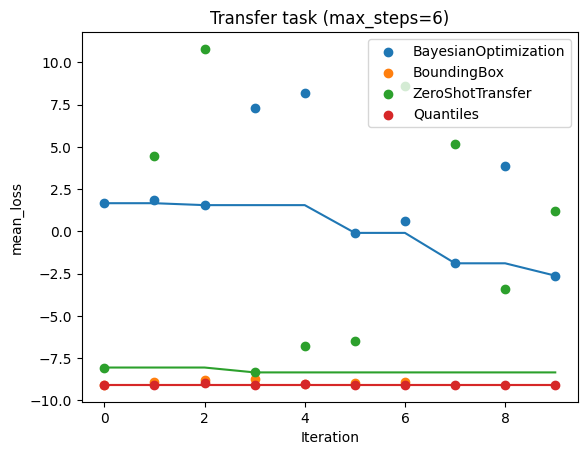
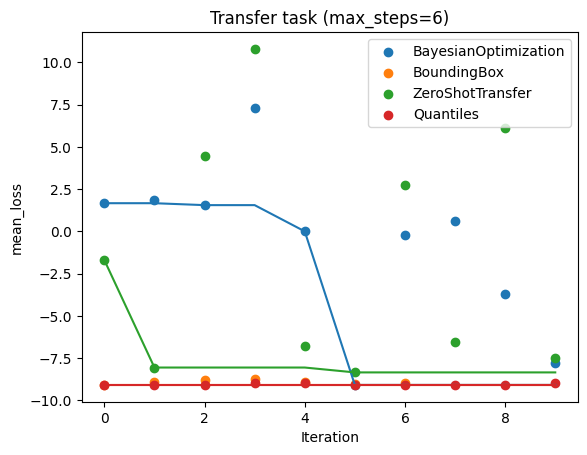
Fixes to example.

diff --git a/docs/source/tutorials/transfer_learning/transfer_learning_example.py b/docs/source/tutorials/transfer_learning/transfer_learning_example.py
@@ -1,3 +1,19 @@
+# Copyright 2021 Amazon.com, Inc. or its affiliates. All Rights Reserved.
+#
+# Licensed under the Apache License, Version 2.0 (the "License").
+# You may not use this file except in compliance with the License.
+# A copy of the License is located at
+#
+#     http://www.apache.org/licenses/LICENSE-2.0
+#
+# or in the "license" file accompanying this file. This file is distributed
+# on an "AS IS" BASIS, WITHOUT WARRANTIES OR CONDITIONS OF ANY KIND, either
+# express or implied. See the License for the specific language governing
+# permissions and limitations under the License.
+"""
+Example collecting evaluations and using them for transfer learning on a
+related task.
+"""
 from examples.training_scripts.height_example.train_height import (
     height_config_space,
     METRIC_ATTR,
@@ -57,20 +73,24 @@ def plot_last_task(max_trials, df, label, metric, color):
     plt.plot([np.min(df[metric][:ii]) for ii in range(1, max_trials + 1)], color=color)
 
 
+def filter_completed(df):
+    # Filter out runs that didn't finish
+    return df[df["status"] == "Completed"].reset_index()
+
+
 def extract_transferable_evaluations(df, metric, config_space):
     """
     Take a dataframe from a tuner run, filter it and generate
     TransferLearningTaskEvaluations from it
     """
-
-    # Filter out nan values, i.e. make sure we only use completed runs
-    filter_df = df[~pd.isna(df[metric])].reset_index()
+    filter_df = filter_completed(df)
 
     return TransferLearningTaskEvaluations(
         configuration_space=config_space,
         hyperparameters=filter_df[config_space.keys()],
         objectives_names=[metric],
-        # objectives_evaluations need to be of shape (num_evals, num_seeds, num_fidelities, num_objectives)
+        # objectives_evaluations need to be of shape
+        # (num_evals, num_seeds, num_fidelities, num_objectives)
         # We only have one seed, fidelity and objective
         objectives_evaluations=np.array(filter_df[metric], ndmin=4).T,
     )
@@ -156,6 +176,7 @@ if __name__ == "__main__":
             transfer_learning_evaluations=None,
         )
 
+        print("Optimising preliminary task %s" % max_steps)
         prev_task = run_scheduler_on_task(entry_point, scheduler, max_trials)
 
         # Generate TransferLearningTaskEvaluations from previous task
@@ -176,6 +197,7 @@ if __name__ == "__main__":
             metric=METRIC_ATTR,
             transfer_learning_evaluations=transfer_learning_evaluations,
         )
+        print("Optimising transfer task using %s" % scheduler_str)
         transfer_task_results[scheduler_str] = run_scheduler_on_task(
             entry_point, scheduler, max_trials
         )
@@ -207,7 +229,7 @@ if __name__ == "__main__":
     add_labels(
         ax,
         scheduler.config_space,
-        "Explored locations of BO for different preliminary tasks",
+        "Explored locations of BO for preliminary tasks",
     )
     plt.savefig("Configs_explored_preliminary.png", bbox_inches="tight")
 
@@ -216,14 +238,15 @@ if __name__ == "__main__":
 
     # Plot the configs tried by the different schedulers on the transfer task
     for label in labels:
+        finished_trials = filter_completed(transfer_task_results[label])
         scatter_space_exploration(
-            ax, transfer_task_results[label], max_trials, label, color=colours[label]
+            ax, finished_trials, max_trials, label, color=colours[label]
         )
 
         # Plot the first config tested as a big square
         ax.scatter(
-            transfer_task_results[label]["width"][0],
-            transfer_task_results[label]["height"][0],
+            finished_trials["width"][0],
+            finished_trials["height"][0],
             marker="s",
             color=colours[label],
             s=100,
@@ -233,7 +256,9 @@ if __name__ == "__main__":
     past_label = "Preliminary optima"
     for key in transfer_learning_evaluations:
         argmin = np.argmin(
-            transfer_learning_evaluations[key].objective_values(METRIC_ATTR)[:, 0, 0]
+            transfer_learning_evaluations[key].objective_values(METRIC_ATTR)[
+                :max_trials, 0, 0
+            ]
         )
         ax.scatter(
             transfer_learning_evaluations[key].hyperparameters["width"][argmin],

diff --git a/docs/source/tutorials/transfer_learning/transfer_learning.rst b/docs/source/tutorials/transfer_learning/transfer_learning.rst
@@ -9,36 +9,38 @@ Syne Tune includes implementations of several transfer learning schedulers; a li
 * :class:`~syne_tune.optimizer.schedulers.transfer_learning.BoundingBox`: We construct a smaller hyperparameter search space by taking the minimum box which contains the optimal configurations for the previous tasks. The idea is to speed up optimisation by not searching areas which have been suboptimal for all previous tasks.
 * Quantiles (:class:`~syne_tune.optimizer.schedulers.transfer_learning.quantile_based.quantile_based_searcher`): We map the hyperparameter evaluations to quantiles for each task. Then we learn a distribution of quantiles given hyperparameters. Finally we sample from the distribution and evaluate the best sample. The idea is to speed up optimisation by searching areas with high-ranking configurations but without enforcing hard limits on the search space.
 
-We compare them to standard :class:`~syne_tune.optimizer.baselines.BayesianOptimization` (BO). We construct a set of tasks based on the height example. We first collect evaluations of five tasks, and then compare results on the sixth. We consider the single-fidelity case.
+We compare them to standard :class:`~syne_tune.optimizer.baselines.BayesianOptimization` (BO).
+
+We construct a set of tasks based on the height example. We first collect evaluations of five tasks, and then compare results on the sixth. We consider the single-fidelity case. The code is available `here <transfer_learning_example.py>`_.
 
 In order to run our transfer learning schedulers we need to parse the output of the tuner into a dict of :class:`~syne_tune.optimizer.schedulers.transfer_learning.TransferLearningTaskEvaluations`. We do this in the `extract_transferable_evaluations` function.
 
 .. literalinclude:: transfer_learning_example.py
    :caption: Code to prepare evaluations from previous tasks for transfer learning.
-   :lines: 60-76
+   :lines: 76-96
 
 We start by collecting evaluations by running `BayesianOptimization` on five tasks. We generate the different tasks by setting `max_steps=1..5` in the backend in `init_scheduler`. Once we have run BO on the task we store the evaluations as `TransferLearningTaskEvaluations`. 
 
 .. literalinclude:: transfer_learning_example.py
    :caption: Code to initialise schedulers, use it to optimise a task and collect evaluations on preliminary tasks.
-   :lines: 79-164
+   :lines: 99-185
 
 
 Then we run different schedulers to compare on our transfer task with `max_steps=6`. For `ZeroShotTransfer` we set `use_surrogates=True`, meaning that it uses an XGBoost model to estimate the rank of configurations, as we do not have evaluations of the same configurations on all previous tasks.  
 
 .. literalinclude:: transfer_learning_example.py
    :caption: Code to run schedulers on transfer task.
-   :lines: 166-181
+   :lines: 187-203
 
-We plot the results on the transfer task. We see that the early performance of the transfer schedulers is much better than standard BO.
+We plot the results on the transfer task. We see that the early performance of the transfer schedulers is much better than standard BO. We only plot the first `max_trials` results.
 
 .. literalinclude:: transfer_learning_example.py
    :caption: Plotting helper code.
-   :lines: 27-57
+   :lines: 43-73
    
 .. literalinclude:: transfer_learning_example.py
    :caption: Code to plot results on transfer task.
-   :lines: 183-196
+   :lines: 205-218
    
 .. image:: Transfer_task.png
    :width: 768 px
@@ -47,7 +49,7 @@ We also look at the parts of the search space explored. First by looking at the 
 
 .. literalinclude:: transfer_learning_example.py
    :caption: Code to plot the configurations tried for the preliminary tasks.
-   :lines: 198-212
+   :lines: 220-234
    
 .. image:: Configs_explored_preliminary.png
    :width: 768 px
@@ -56,7 +58,7 @@ Then we look at the explored search space for the transfer task. For all the tra
 
 .. literalinclude:: transfer_learning_example.py
    :caption: Code to plot the configurations tried for the transfer task.
-   :lines: 214-
+   :lines: 236-
    
 .. image:: Configs_explored_transfer.png
    :width: 768 px
